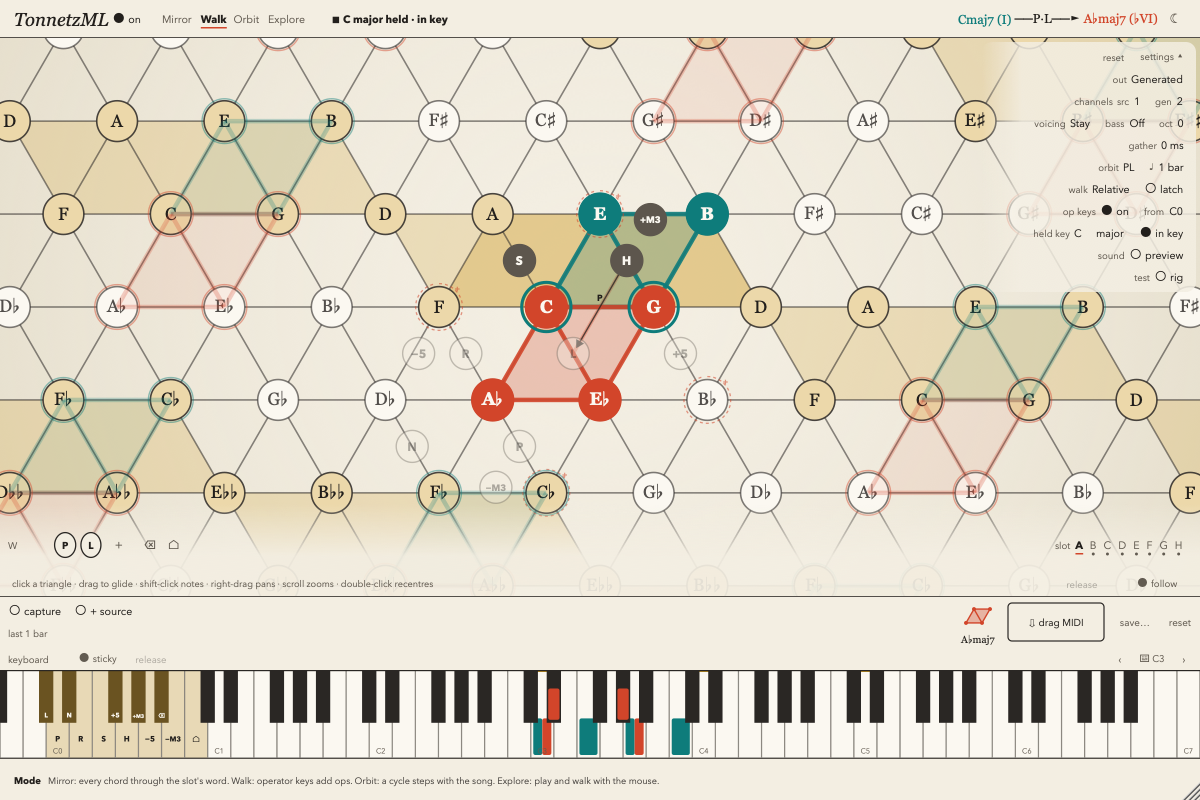
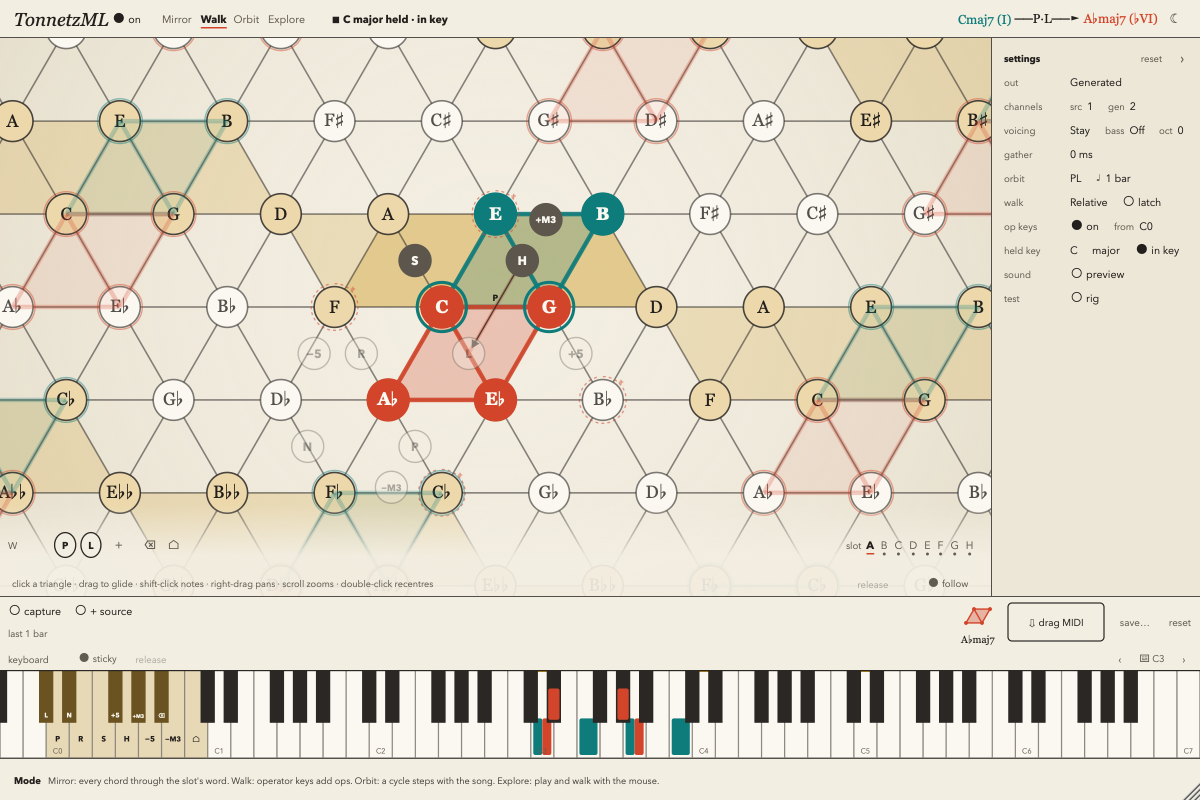
Settings panel docked to the right of the lattice
The settings that floated over the lattice's top-right corner are now a
panel of their own (ui::Settings), between the header and the capture
strip; the lattice and its word bar take what is left.

- A shade off the ground with one ink rule down its left edge. A title
  line ("settings", reset, the fold), then one line per group, caption
  on the left; rows 18-24 px; width from its contents, at most half the
  window.
- The fold (›) collapses it to a 26 px edge with ‹ to reopen; still
  saved with the view.
- Snapshot app: docking at 760 x 520 and 1400 x 900, clear of the word
  bar, the fold, a folded reference image; references updated.
- README, CHANGELOG, PLAN (the panel recorded as a deliberate exception
  to "no panels") and the README screenshot.

diff --git a/Source/ui/Hud.cpp b/Source/ui/Hud.cpp
@@ -536,7 +536,7 @@ namespace tonnetz::ui
               refresh();
               if (layoutChanged)
                   layoutChanged();
-          }, 13.0f),
+          }, 19.0f),
           reset (p.editorView(), "reset", [this] { processor.resetSettings(); refresh(); }, 13.0f)
     {
         const auto& v = p.editorView();
@@ -565,25 +565,27 @@ namespace tonnetz::ui
         // Reset settings: on the fold's line, so it reads "reset  settings ▴".
         reset.setComponentID ("ui.resetSettings");
         reset.setConfirm ("sure?");
-        reset.setTooltip ("Reset settings: every setting in this column back to its default (click again to confirm).");
+        reset.setTooltip ("Reset settings: every setting in this panel back to its default (click again to confirm).");
         addAndMakeVisible (reset);
         refresh();
     }
 
     int Settings::rowHeight() const
     {
-        if (! processor.editorView().showSettings)
-            return maxRow;
-        return juce::jlimit (minRow, maxRow, (getHeight() - 8) / (lines.size() + 1));
+        // Title line + one per group, in the panel's height (a small window squeezes them).
+        return juce::jlimit (minRow, maxRow, content().getHeight() / (lines.size() + 1));
     }
 
     juce::String Settings::infoKeyAt (juce::Point<int> p) const
     {
-        // A line's caption and the gaps between its items stand for its first item.
-        auto r = getLocalBounds().reduced (8, 4);
+        // A line's caption and the gaps between its items stand for its first item; the title
+        // line for the fold.
+        if (! processor.editorView().showSettings)
+            return fold.getComponentID();
+        const auto r = content();
         const int row = rowHeight();
-        if (p.y < r.getY() + row || ! processor.editorView().showSettings)
-            return p.x < fold.getX() - 4 && p.x >= reset.getX() - 4 ? reset.getComponentID() : fold.getComponentID();
+        if (p.y < r.getY() + row)
+            return fold.getComponentID();
         const int line = (p.y - r.getY()) / row - 1;
         if (line >= 0 && line < lines.size() && ! lines.getReference (line).items.isEmpty())
             return lines.getReference (line).items.getFirst()->getComponentID();
@@ -596,27 +598,26 @@ namespace tonnetz::ui
             out.add (c);
     }
 
-    juce::Rectangle<int> Settings::preferredSize (int maxHeight) const
+    int Settings::preferredWidth() const
     {
-        const int top = fold.preferredWidth() + 8 + reset.preferredWidth();
         if (! processor.editorView().showSettings)
-            return { 0, 0, top + 16, maxRow + 8 };
-        int w = top;
+            return foldedWidth;
+        int w = captionWidth + reset.preferredWidth() + gap + fold.preferredWidth();
         for (const auto& line : lines)
         {
             int lw = captionWidth;
             for (auto* c : line.items)
-                lw += c->preferredWidth() + 10;
-            w = juce::jmax (w, lw);
+                lw += c->preferredWidth() + gap;
+            w = juce::jmax (w, lw - gap);
         }
-        const int row = juce::jlimit (minRow, maxRow, (maxHeight - 8) / (lines.size() + 1));
-        return { 0, 0, w + 16, row * (lines.size() + 1) + 8 };
+        return w + 25;
     }
 
     void Settings::refresh()
     {
         const bool shown = processor.editorView().showSettings;
-        fold.setText (shown ? utf8 ("settings \xe2\x96\xb4") : utf8 ("settings \xe2\x96\xbe"));
+        fold.setText (shown ? utf8 ("\xe2\x80\xba") : utf8 ("\xe2\x80\xb9"));   // › ‹ (fold to the right / open)
+        reset.setVisible (shown);
         bool widthChanged = false;
         for (const auto& line : lines)
             for (auto* c : line.items)
@@ -625,26 +626,33 @@ namespace tonnetz::ui
                 c->refresh();
                 widthChanged = widthChanged || (shown && std::abs (c->getWidth() - c->preferredWidth()) > 0);
             }
+        widthChanged = widthChanged || getWidth() != preferredWidth();
         if (widthChanged && layoutChanged)
             layoutChanged();
     }
 
     void Settings::resized()
     {
-        auto r = getLocalBounds().reduced (8, 4);
+        auto r = content();
+        if (! processor.editorView().showSettings)
+        {
+            fold.setBounds (getLocalBounds().withTrimmedLeft (1).removeFromTop (r.getY() + maxRow).withTrimmedTop (r.getY()));
+            repaint();
+            return;
+        }
         const int h = rowHeight();
         auto top = r.removeFromTop (h);
         fold.setBounds (top.removeFromRight (fold.preferredWidth()));
-        top.removeFromRight (8);
+        top.removeFromRight (gap);
         reset.setBounds (top.removeFromRight (reset.preferredWidth()));
         for (const auto& line : lines)
         {
             auto row = r.removeFromTop (h);
-            for (int i = line.items.size(); --i >= 0;)
+            row.removeFromLeft (captionWidth);
+            for (auto* c : line.items)
             {
-                auto* c = line.items[i];
-                c->setBounds (row.removeFromRight (c->preferredWidth()));
-                row.removeFromRight (10);
+                c->setBounds (row.removeFromLeft (c->preferredWidth()));
+                row.removeFromLeft (gap);
             }
         }
         repaint();
@@ -653,24 +661,21 @@ namespace tonnetz::ui
     void Settings::paint (juce::Graphics& g)
     {
         const auto& k = Ink::of (processor.editorView().dark);
+        // Its own page: a shade off the ground, with one ink rule down its left edge.
+        g.setColour (k.ground.interpolatedWith (k.groundEdge, 0.45f));
+        g.fillRect (getLocalBounds());
+        g.setColour (k.line.withAlpha (0.8f));
+        g.fillRect (0.0f, 0.0f, 1.0f, (float) getHeight());
         if (! processor.editorView().showSettings)
             return;
-        // A soft wash behind the text so it reads over the lines (no border: not a panel).
-        juce::ColourGradient wash (k.ground.withAlpha (0.0f), 0.0f, 0.0f, k.wash, 40.0f, 0.0f, false);
-        g.setGradientFill (wash);
-        g.fillRoundedRectangle (getLocalBounds().toFloat(), 10.0f);
+        auto r = content();
+        const int h = rowHeight();
+        g.setColour (k.text);
+        g.setFont (Ink::ui (13.0f, true));
+        g.drawText ("settings", r.removeFromTop (h), juce::Justification::centredLeft, false);
         g.setFont (Ink::ui (13.0f));
         g.setColour (k.textFaint);
-        auto r = getLocalBounds().reduced (8, 4);
-        const int h = rowHeight();
-        r.removeFromTop (h);
         for (const auto& line : lines)
-        {
-            auto row = r.removeFromTop (h);
-            int left = row.getRight();
-            for (auto* c : line.items)
-                left = juce::jmin (left, c->getX());
-            g.drawText (line.caption, juce::Rectangle<int> (left - captionWidth - 4, row.getY(), captionWidth, row.getHeight()), juce::Justification::centredRight, false);
-        }
+            g.drawText (line.caption, r.removeFromTop (h).withWidth (captionWidth - 6), juce::Justification::centredLeft, false);
     }
 }

diff --git a/Tests/Snapshot/Main.cpp b/Tests/Snapshot/Main.cpp
@@ -2073,19 +2073,38 @@ namespace
         listed.sort (false);
         check (inColumn == listed, "Reset settings covers exactly the settings column (" + inColumn.joinIntoString (" ") + ")");
 
-        // Both buttons fit at the smallest size and the column stays above the word bar.
+        // Both buttons fit at the smallest size; the panel is docked right of the lattice, from
+        // the header to the capture strip, and folds to a slim edge.
         for (const auto& size : { std::make_pair (760, 520), std::make_pair (1400, 900) })
         {
             ed.setSize (size.first, size.second);
             ed.refreshNow();
             const auto rs = ed.getLocalArea (&resetSettings, resetSettings.getLocalBounds());
             const auto rc = ed.getLocalArea (&resetCapture, resetCapture.getLocalBounds());
-            const auto column = ed.settings().getBounds();
+            const auto panel = ed.settings().getBounds();
+            const auto lat = ed.latticeView().getBounds();
             const auto bar = ed.wordBar().getBounds();
             check (ed.getLocalBounds().contains (rs) && ed.getLocalBounds().contains (rc) && rs.getWidth() >= resetSettings.preferredWidth() - 1
-                       && rc.getWidth() >= resetCapture.preferredWidth() - 1 && column.getBottom() <= bar.getY() + 4,
-                   juce::String (size.first) + " x " + juce::String (size.second) + ": both reset buttons fit, the settings column ends above the word bar ("
-                       + juce::String (column.getBottom()) + " / " + juce::String (bar.getY()) + ")");
+                       && rc.getWidth() >= resetCapture.preferredWidth() - 1,
+                   juce::String (size.first) + " x " + juce::String (size.second) + ": both reset buttons fit");
+            check (panel.getRight() == ed.getWidth() && panel.getX() == lat.getRight() && panel.getY() == lat.getY() && panel.getBottom() == lat.getBottom()
+                       && panel.getBottom() == ed.captureStrip().getY() && ! panel.intersects (bar) && bar.getRight() <= lat.getRight(),
+                   "the settings panel is docked right of the lattice, header to capture strip, clear of the word bar ("
+                       + panel.toString() + ", lattice " + lat.toString() + ")");
+            auto& view = h.p->editorView();
+            view.showSettings = false;
+            ed.settings().refresh();
+            ed.refreshNow();
+            const auto folded = ed.settings().getBounds();
+            check (folded.getWidth() == ui::Settings::foldedWidth && ed.latticeView().getRight() == folded.getX() && ! resetSettings.isVisible()
+                       && ed.settings().foldButton().isVisible(),
+                   "folded: a slim edge with its fold button, the lattice takes the room (" + folded.toString() + ")");
+            if (size.first == 760)
+                compareImage (editorImage (ed, 760, 520), "settings_folded_paper_760x520", fixtures, output);
+            view.showSettings = true;
+            ed.settings().refresh();
+            ed.refreshNow();
+            check (ed.settings().getWidth() == panel.getWidth(), "unfolded again at its width");
         }
     }
 

diff --git a/Source/ui/Hud.h b/Source/ui/Hud.h
@@ -182,6 +182,10 @@ namespace tonnetz::ui
         juce::String sentence;
     };
 
+    // The settings panel (after 1.0.1): the parameters the header and word bar don't show, as a
+    // panel of its own docked to the right of the lattice, between the header and the capture
+    // strip. A title line ("settings", reset, the fold ›), then one line per group: a caption on
+    // the left, its controls after it. Folded, it is a slim edge with ‹ to open it again.
     class Settings final : public juce::Component
     {
     public:
@@ -189,12 +193,15 @@ namespace tonnetz::ui
         void refresh();
         void paint (juce::Graphics&) override;
         void resized() override;
-        // The column's size for its contents, in at most `maxHeight` (its rows shrink to fit).
-        juce::Rectangle<int> preferredSize (int maxHeight = 10000) const;
-        HudButton& resetButton() noexcept { return reset; }
+        // The panel's width for its contents (folded: the slim edge).
+        int preferredWidth() const;
         void controls (juce::Array<HudControl*>& out);
-        // The Info View's key for a point on the column itself (a caption, a gap, the fold).
+        // The Info View's key for a point on the panel itself (a caption, a gap, the title).
         juce::String infoKeyAt (juce::Point<int>) const;
+        HudButton& resetButton() noexcept { return reset; }
+        HudButton& foldButton() noexcept { return fold; }
+
+        static constexpr int foldedWidth = 26;
 
     private:
         struct Line
@@ -208,6 +215,7 @@ namespace tonnetz::ui
         juce::Array<Line> lines;
         HudButton fold, reset;
         int rowHeight() const;
-        static constexpr int maxRow = 22, minRow = 18, captionWidth = 70;
+        juce::Rectangle<int> content() const { return getLocalBounds().withTrimmedLeft (1).reduced (12, 8); }
+        static constexpr int maxRow = 24, minRow = 18, captionWidth = 66, gap = 10;
     };
 }

diff --git a/Source/ui/TonnetzEditor.cpp b/Source/ui/TonnetzEditor.cpp
@@ -11,7 +11,7 @@ namespace tonnetz
           strip (p, picture, lattice, notes),
           word (p, picture),
           head (p, picture, [this] { setDark (! processor.editorView().dark); }),
-          side (p, [this] { if (constructed) layoutFloating(); }),
+          side (p, [this] { if (constructed) resized(); }),
           info (p.editorView().dark)
     {
         setOpaque (true);
@@ -142,7 +142,7 @@ namespace tonnetz
         {
             seenViewRestores = processor.editorViewRestores();
             lattice.viewRestored();
-            layoutFloating();
+            resized();
             themeChanged();
         }
         // The capture (Phase 5): taken from the audio thread here too, so the strip keeps up.
@@ -169,9 +169,6 @@ namespace tonnetz
     void TonnetzEditor::layoutFloating()
     {
         const auto lat = lattice.getBounds();
-        // The column stops above the word bar (its rows shrink to fit a small window).
-        const auto pref = side.preferredSize (lat.getHeight() - 8 - 22 - word.preferredHeight());
-        side.setBounds (lat.getRight() - pref.getWidth() - 4, lat.getY() + 4, pref.getWidth(), pref.getHeight());
         word.setBounds (lat.getX(), lat.getBottom() - 22 - word.preferredHeight(), lat.getWidth(), word.preferredHeight());
     }
 
@@ -183,6 +180,8 @@ namespace tonnetz
         const int keysHeight = ui::KeyboardStrip::barHeight + juce::jlimit (56, 96, getHeight() / 9);
         keyboard.setBounds (r.removeFromBottom (keysHeight));
         strip.setBounds (r.removeFromBottom (ui::CaptureStrip::stripHeight));
+        // The settings panel to the right of the lattice; the lattice takes the rest.
+        side.setBounds (r.removeFromRight (juce::jmin (side.preferredWidth(), r.getWidth() / 2)));
         lattice.setBounds (r);
         layoutFloating();
     }

diff --git a/Source/ui/InfoView.cpp b/Source/ui/InfoView.cpp
@@ -29,9 +29,9 @@ namespace tonnetz::ui
               "Right- or \xe2\x8c\x98-drag pans, the wheel zooms, double-click recentres." },
             { "ui.follow", "Follow", "On: the view eases to keep the chord played and the chord made in sight." },
             { "ui.latticeRelease", "Release", "Lets go of the triangle or set the lattice holds (Sticky)." },
-            { "ui.settings", "Settings", "Shows or folds this column of the other settings." },
+            { "ui.settings", "Settings", "Folds this panel to a slim edge (\xe2\x80\xba), or opens it again (\xe2\x80\xb9), giving the lattice the room." },
             { "ui.resetSettings", "Reset settings",
-              "Puts every setting in this column back to its default. Click, then click \"sure?\" within 3 seconds. "
+              "Puts every setting in this panel back to its default. Click, then click \"sure?\" within 3 seconds. "
               "Mode, Key, the slots' words and the capture stay." },
 
             // ---- The settings column ----------------------------------------------------------

diff --git a/PLAN.md b/PLAN.md
@@ -404,18 +404,27 @@ is also drawn faintly at its other copies on the torus. Numerals: `core/theory/R
 hover audition (Phase 6, done), the camera and theme saved
 with the set (Phase 6, done).
 
+*As built (after 1.0.1): the settings panel.* At the user's request the settings column is no
+longer a HUD over the lattice but a panel of its own (`ui::Settings`), docked to the editor's right
+between the header and the capture strip; the lattice (and the word bar over its foot) takes what
+is left. It is the one exception to "no panels": a shade off the ground (ground toward groundEdge,
+45%) with one ink rule down its left edge, no border or box. A title line ("settings" in bold,
+*reset*, the fold ›), then one line per group, caption left (66 px), controls after it; rows 18-24
+px in the panel's height; width from its contents (at most half the window). Folded
+(`showSettings` off, saved with the view as before): 26 px wide, just ‹. The snapshot app checks
+the docking at 760 × 520 and 1400 × 900, the fold, and keeps the no-overlap and Info View checks.
+
 *As built (after 1.0.1): resets and bigger labels.* **Reset capture** (`ui.resetCapture`, at the
 capture strip's right, after save…) calls `TonnetzProcessor::clearCapture` → `CaptureModel::clear`:
 the last 64 bars and the take go, notes still sounding are kept from the reset (their note-offs
 still land), an armed take carries on empty; dimmed while nothing is captured. **Reset settings**
-(`ui.resetSettings`, on the settings column's fold line: "reset  settings ▴") calls
+(`ui.resetSettings`, on the settings panel's title line) calls
 `TonnetzProcessor::resetSettings`: each of `settingsParameterIDs()` (exactly the column's 18
 parameters, checked by the snapshot app) to its default as a host gesture; Mode, Key, Slot, Enable,
 the capture toggles, the slot words, `W` and the view stay. Both are `HudButton`s with a confirm
 text: a click shows "sure?" in vermilion for 3 s and a second click acts. Type: HUD values 14.5 pt
 (were 13), captions and the strips' small buttons 13 (were 11.5), the lattice's hints 12.5 (were
-11), glyph names 11.5; `textFaint` darker (paper `#625b51`, night `#a49f91`). The settings column's
-rows are 18-22 px, sized to end above the word bar; the capture strip is 52 px (was 46), the
+11), glyph names 11.5; `textFaint` darker (paper `#625b51`, night `#a49f91`). The capture strip is 52 px (was 46), the
 keyboard strip's bar 22 (was 18).
 
 *As built (after 1.0.0): the Info View.* Like NoteCap's (and Live's): a strip along the very

diff --git a/CHANGELOG.md b/CHANGELOG.md
@@ -4,11 +4,15 @@
 
 ### Added
 
+- **Settings panel:** the settings that used to float over the lattice's top-right corner are now
+  a panel of their own, docked to the right of the lattice from the header down to the capture
+  strip: a *settings* title line with *reset* and a fold button (›), then one line per group with
+  its caption on the left. Fold it (›) to a slim edge to give the lattice the room; ‹ opens it
+  again (saved with the set, as before). The lattice and its word bar now end where the panel begins.
 - **Reset capture:** a *reset* button at the right of the capture strip forgets the chords captured,
   the take included. An armed take carries on, empty; notes still sounding stay in the capture from
   the reset. Dimmed while nothing is captured.
-- **Reset settings:** a *reset* button on the settings column's top line ("reset  settings ▴")
-  puts the column's 18 settings back to their defaults (Out, the channels, voicing, gather, Orbit,
+- **Reset settings:** a *reset* button on the settings panel's title line puts the panel's 18 settings back to their defaults (Out, the channels, voicing, gather, Orbit,
   Walk, latch, the operator keys, the held key, In key, Preview tone, the test rig). Mode, Key, Slot,
   Enable, the capture toggles, the slots' words and `W` are left alone.
 - Both reset buttons ask first: a click shows *sure?* in vermilion, and a second click within 3
@@ -18,9 +22,8 @@
 
 - **Bigger, clearer labels:** the settings column, the header's controls, the word bar, the
   capture strip, the keyboard strip and the lattice's hints are about 1.5 points larger, and the
-  faint caption ink is darker in both themes. The settings column's rows shrink (to 18 px) to stay
-  above the word bar in a small window; the capture strip and the keyboard strip's bar are a few
-  pixels taller, so the lattice gives up 10 px.
+  faint caption ink is darker in both themes. The capture strip and the keyboard strip's bar are a
+  few pixels taller, so the lattice gives up 10 px.
 
 ### Fixed
 

diff --git a/README.md b/README.md
@@ -66,9 +66,10 @@ hovering a ghost neighbour auditions it.
   on, empty).
 - **The keyboard strip** shows both inks and the operator zone; click to play (*sticky* holds keys
   until clicked again), or use the computer keyboard (Z… and Q… rows, ‹ › for the octave).
-- **The settings column** (top right): the other settings as click-to-cycle labels; **settings ▴**
-  folds it, and **reset** beside it puts every setting in the column back to its default (Mode, Key,
-  Slot and the slots' words stay). Both resets ask first: click, then click *sure?* within 3 seconds.
+- **The settings panel**, docked to the right of the lattice: the other settings as click-to-cycle
+  labels, a group to a line. **›** folds it to a slim edge (**‹** opens it), and **reset** puts every
+  setting in it back to its default (Mode, Key, Slot and the slots' words stay). Both resets ask
+  first: click, then click *sure?* within 3 seconds.
 - **The Info View** along the bottom: point at any control, button or part of the window and it
   says what it does and what its settings mean, like Live's own Info View.
 
